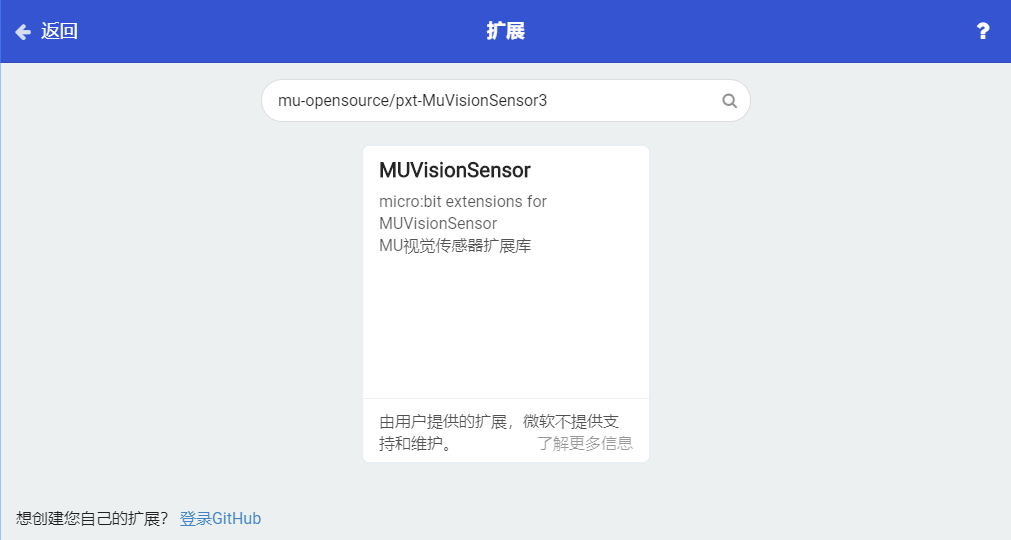
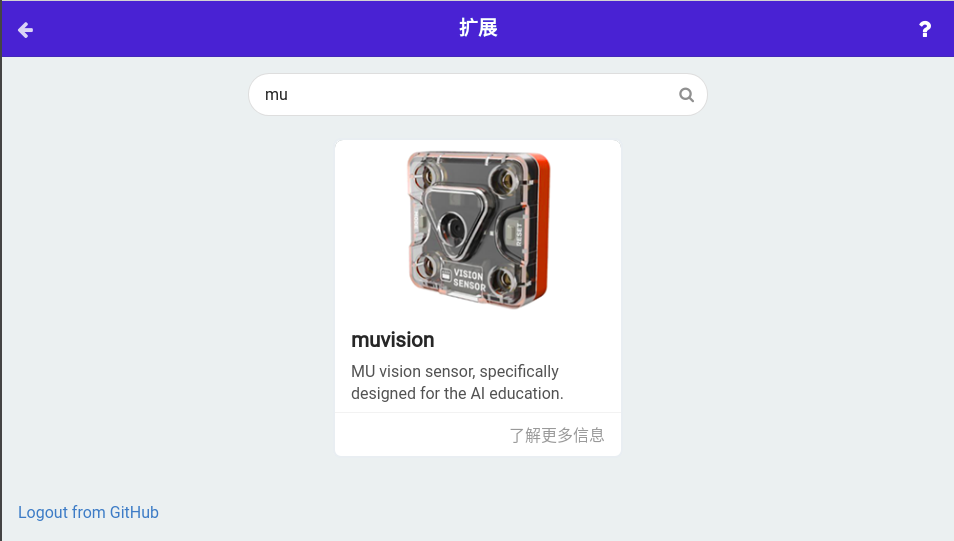
update

diff --git a/MUVS3/MUVS3_MakeCode/MUVS3_MakeCode_Guide.md b/MUVS3/MUVS3_MakeCode/MUVS3_MakeCode_Guide.md
@@ -4,9 +4,9 @@
 
 ![](./images/MUVS3_Makecode_extension.png)
 
-搜索 `mu-opensource/muvision` (旧版链接 `mu-opensource/pxt-MuVisionSensor3` 已弃用，请尽快转至新版库)，点击卡片完成添加。
+搜索 `muvision` 或 `mu` (旧版链接 `mu-opensource/pxt-MuVisionSensor3` 已弃用，请尽快转至新版库)，点击卡片完成添加。
 
-<!-- ![](./images/MUVS3_Makecode_extension_MU.png) -->
+![](./images/MUVS3_Makecode_extension_MU.png)
 
 ![](./images/MUVS3_Makecode_imported.png)
 
@@ -231,3 +231,5 @@ WiFi 配置模块只能在 `WiFi` 和 `图传` 模式下使用。
 实验现象：未检测到数字卡片时视觉传感器闪红灯，检测到时闪蓝灯，当识别到卡片为1时Micro:bit显示数字1，识别到卡片2时显示数字2。
 
 ![](./images/Makecode_example_serial.png)
+
+更多例程可参考：<https://makecode.microbit.org/pkg/mu-opensource/pxt-muvision>
